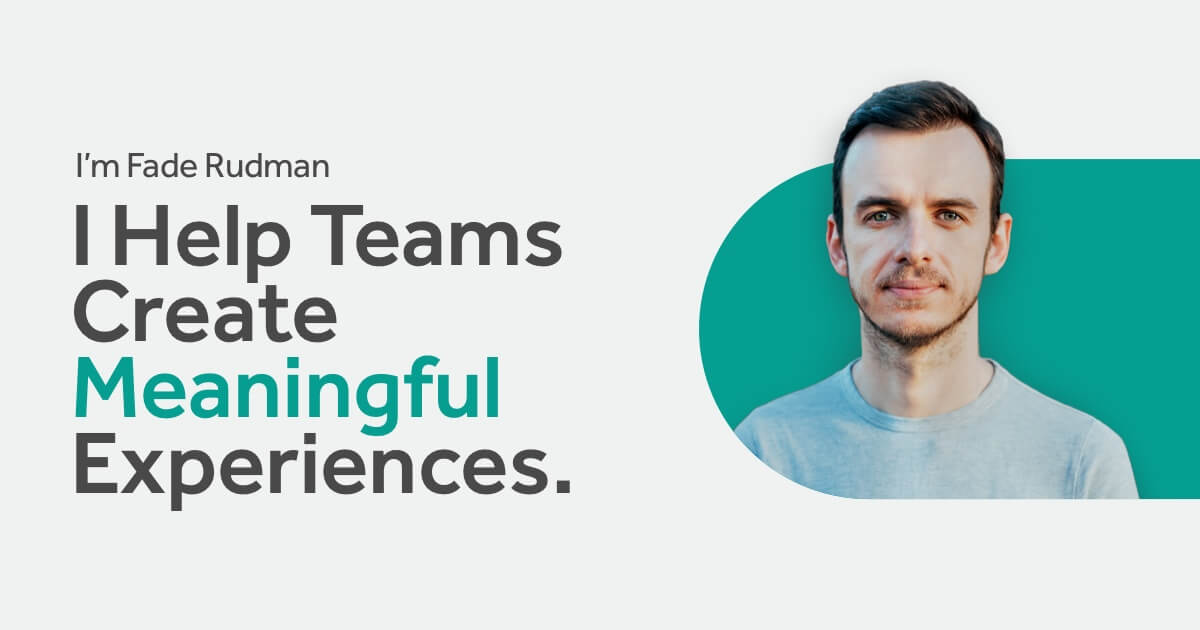
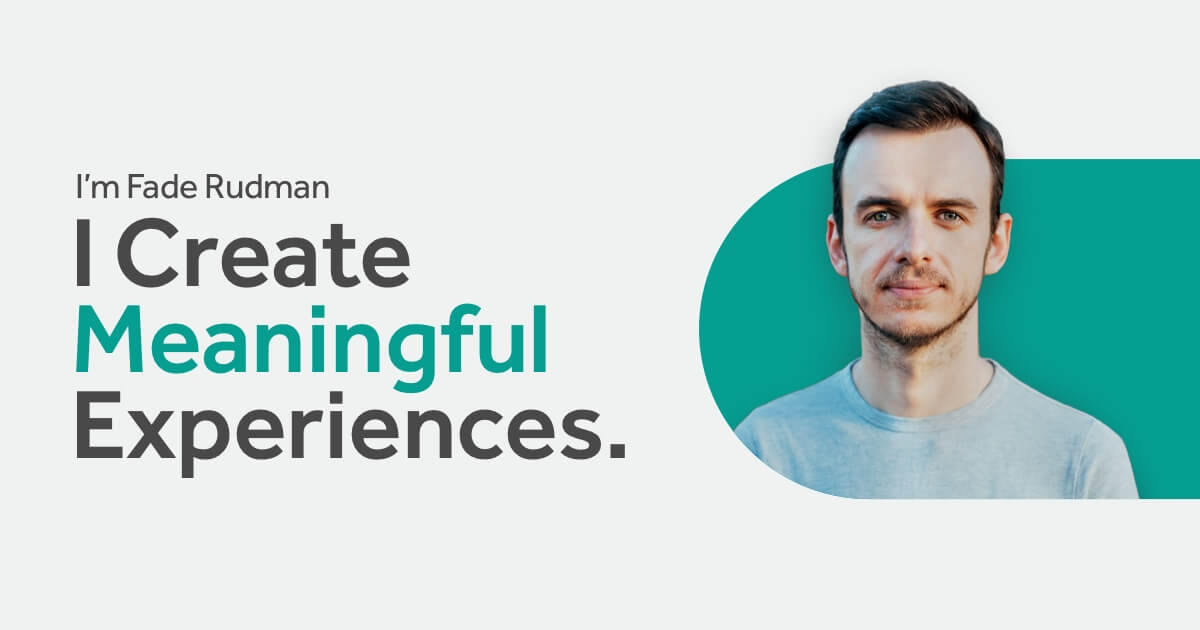
Revert "Headline change"
This reverts commit 7931a05cc0fd3d31d9d905c9f01ec46952dc0029.

Changed region(s): [[0.0617, 0.2413, 0.5242, 0.8143]]

diff --git a/experiences/index.html b/experiences/index.html
@@ -1,7 +1,7 @@
 <!DOCTYPE html>
 <html>
   <head>
-    <title>Fade Rudman - I Help Teams Create Meaningful Experiences.</title>
+    <title>Fade Rudman - I Create Meaningful Experiences.</title>
 
     <meta charset="utf-8">
     <meta name="viewport" content="width=device-width, initial-scale=1.0, minimum-scale=1.0, maximum-scale=1.0">
@@ -20,11 +20,11 @@
 
     <!-- open graph -->
     <meta property="og:title" content="Fade Rudman">
-    <meta property="og:description" content="=I help teams create meaningful experiences.">
+    <meta property="og:description" content="I Create Meaningful Experiences.">
     <meta property="og:image" content="https://faderud.com/experiences/img/social_meta_image.jpg">
     <meta property="og:url" content="https://faderud.com">
     <meta name="twitter:title" content="Fade Rudman">
-    <meta name="twitter:description" content="I help teams create meaningful experiences.">
+    <meta name="twitter:description" content="I Create Meaningful Experiences.">
     <meta name="twitter:image" content="https://faderud.com/experiences/img/social_meta_image.jpg">
     <meta name="twitter:card" content="summary_large_image">
 
@@ -34,16 +34,16 @@
     <link rel="stylesheet" href="css/desktop.css" media="(min-width: 961px)" />
     <link rel="stylesheet" href="css/tablet.css" media="(max-width: 1250px) and (min-width: 768px)" />
     <link rel="stylesheet" href="css/mobile-landscape.css" media="(max-width: 960px) and (min-width: 551px)" />
-    <link rel="stylesheet" href="css/tablet-portrait.css" media="(max-width: 960px) and (min-width: 768px) and (min-height: 820px)" />
+    <link rel="stylesheet" href="css/tablet-portrait.css" media="(max-width: 960px) and (min-width: 768px)" />
     <link rel="stylesheet" href="css/mobile.css" media="(max-width: 550px)" />
   </head>
   <body>
     <section id="main">
       <div class="left">
         <div>
-          <h4>I&rsquo;m Fade Rudman.</h4>
+          <h4>Hey,<br />I&rsquo;m Fade Rudman.</h4>
           <h1>
-            I Help Teams Create
+            I Create
             <em>Meaningful</em> <em>Authentic</em> <em>Trustworthy</em> <em>Effortless</em> <em>Humaine</em>
             <br /><br />
             Experiences.
@@ -88,7 +88,7 @@
           <h4>Skillset built over 15 years of experience</h4>
           <ul>
             <li>Product architecture from MVP to long-term planning</li>
-            <li>UX and UI Design of software, hardware, and real-life experiences</li>
+            <li>Design of software, hardware, and real-life experiences</li>
           </ul>
           <ul>
             <li>Outward and inward branding and communication of features and strategy</li>

diff --git a/experiences/css/mobile-landscape.css b/experiences/css/mobile-landscape.css
@@ -80,7 +80,7 @@ nav .button {
 
 #main h1 em {
   --x-offset: -10px; /* https://bit.ly/2uP3qeS */
-  top: 45px;
+  top: 44px;
 }
 
 #main h1 {
@@ -89,7 +89,6 @@ nav .button {
 
 #main .right {
   flex-basis: 233px;
-  padding-top: 9px;
 }
 
 #main .right::before {
@@ -207,7 +206,7 @@ nav .button {
 
 .cards picture:nth-child(5) img {
   top: 1010px;
-}
+} 
 
 #fade_portrait {
   height: 245px;

diff --git a/experiences/css/tablet-portrait.css b/experiences/css/tablet-portrait.css
@@ -61,13 +61,13 @@ section#product-design {
 }
 
 h1 {
-  font-size: 75px;
-  line-height: 64px;
+  font-size: 80px;
+  line-height: 68px;
   letter-spacing: -0.3px;
 }
 
 #main h1 em {
-  top: 66px;
+  top: 68px; 
 }
 
 h2 {

diff --git a/experiences/css/common.css b/experiences/css/common.css
@@ -191,7 +191,7 @@ body.scrolled #scroll-indicator svg {
   --in-duration: 300ms;
   --x-offset: -20px;
   position: absolute;
-  top: 172px;
+  top: 86px;
   left: 0;
   opacity: 0;
 }

diff --git a/experiences/css/mobile.css b/experiences/css/mobile.css
@@ -65,7 +65,7 @@ nav .button {
 
 #main h1 em {
   --x-offset: -10px; /* https://bit.ly/2uP3qeS */
-  top: 89px;
+  top: 44px;
 }
 
 #main h1 {

diff --git a/experiences/css/tablet.css b/experiences/css/tablet.css
@@ -5,7 +5,7 @@ h1 {
 }
 
 #main h1 em {
-  top: 138px; 
+  top: 68px; 
 }
 
 section:not(#main), #lets-talk  {
